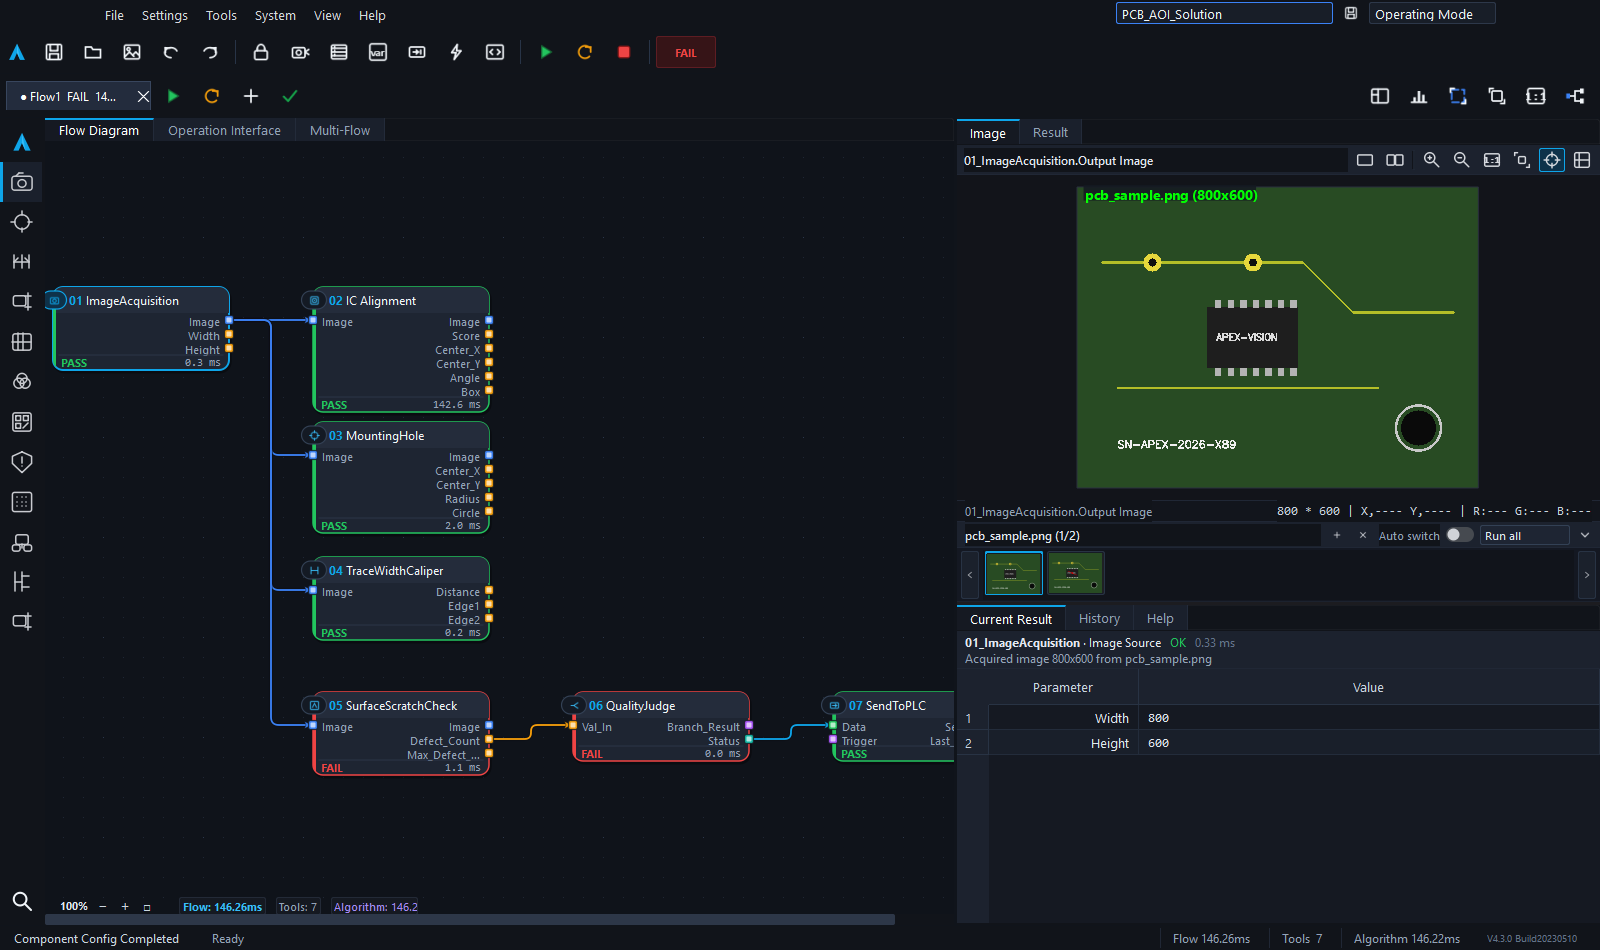
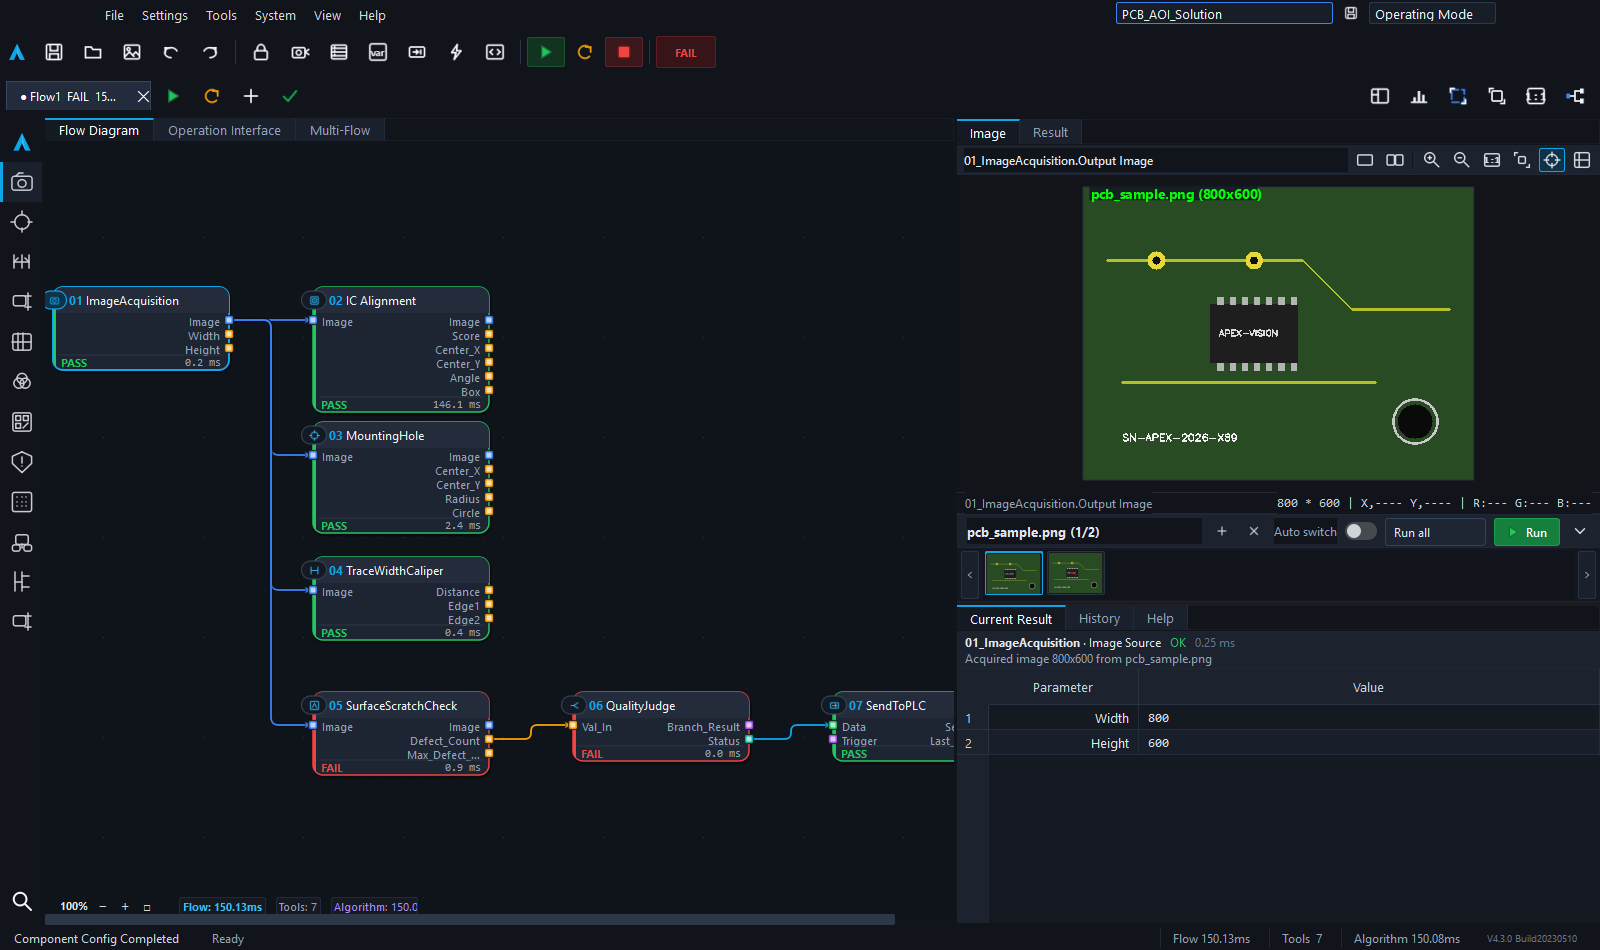
feat(ui): add play run button and enlarge image strip execution toolbar

diff --git a/vm_clone/ui/image_display.py b/vm_clone/ui/image_display.py
@@ -26,7 +26,7 @@ from PyQt6.QtCore import Qt, QSize, QRectF, QPointF, pyqtSignal
 from PyQt6.QtGui import QIcon, QPixmap, QPainter, QColor, QPen, QFont
 from PyQt6.QtWidgets import (
     QWidget, QVBoxLayout, QHBoxLayout, QLabel, QToolButton, QListWidget,
-    QListWidgetItem, QSizePolicy, QFrame, QComboBox
+    QListWidgetItem, QSizePolicy, QFrame, QComboBox, QPushButton
 )
 
 from vm_clone.ui.styles import THEME
@@ -123,7 +123,7 @@ class ToggleSwitch(QToolButton):
     def __init__(self, parent=None):
         super().__init__(parent)
         self.setCheckable(True)
-        self.setFixedSize(28, 15)
+        self.setFixedSize(32, 18)
         self.setCursor(Qt.CursorShape.PointingHandCursor)
 
     def paintEvent(self, event):
@@ -133,17 +133,17 @@ class ToggleSwitch(QToolButton):
         rect = QRectF(0.0, 0.0, w, h)
         if self.isChecked():
             track_color = QColor("#e8792b")
-            knob_x = w - h + 1.5
+            knob_x = w - h + 2.0
         else:
             track_color = QColor("#464a50")
-            knob_x = 1.5
+            knob_x = 2.0
         p.setPen(Qt.PenStyle.NoPen)
         p.setBrush(track_color)
         p.drawRoundedRect(rect, h / 2.0, h / 2.0)
 
-        knob_dia = h - 3.0
+        knob_dia = h - 4.0
         p.setBrush(QColor("#ffffff") if self.isChecked() else QColor("#d0d3d8"))
-        p.drawEllipse(QRectF(knob_x, 1.5, knob_dia, knob_dia))
+        p.drawEllipse(QRectF(knob_x, 2.0, knob_dia, knob_dia))
         p.end()
 
 
@@ -154,6 +154,7 @@ class ImageDisplayArea(QWidget):
     image_selected = pyqtSignal(int)       # index into the image strip
     add_image_requested = pyqtSignal()     # request to add images to the flow
     clear_images_requested = pyqtSignal()   # request to clear the flow images
+    run_requested = pyqtSignal()           # request to execute the flow
 
     def __init__(self, parent=None):
         super().__init__(parent)
@@ -241,10 +242,10 @@ class ImageDisplayArea(QWidget):
         # ---- image strip header ----------------------------------------------
         strip_header = QWidget()
         strip_header.setObjectName("imageStripHeader")
-        strip_header.setFixedHeight(26)
+        strip_header.setFixedHeight(34)
         sl = QHBoxLayout(strip_header)
-        sl.setContentsMargins(8, 2, 6, 2)
-        sl.setSpacing(6)
+        sl.setContentsMargins(10, 4, 8, 4)
+        sl.setSpacing(8)
 
         self.lbl_strip = QLabel("Image Source (0/0)")
         self.lbl_strip.setObjectName("imageStripLabel")
@@ -252,13 +253,13 @@ class ImageDisplayArea(QWidget):
 
         self.btn_add_image = _icon_button("add", "Add / Load Image Files to Flow...")
         self.btn_add_image.setObjectName("stripAddImage")
-        self.btn_add_image.setFixedSize(20, 20)
+        self.btn_add_image.setFixedSize(24, 24)
         self.btn_add_image.clicked.connect(self.add_image_requested)
         sl.addWidget(self.btn_add_image)
 
         self.btn_clear_strip = _icon_button("clear", "Clear image flow list")
         self.btn_clear_strip.setObjectName("stripClearImages")
-        self.btn_clear_strip.setFixedSize(20, 20)
+        self.btn_clear_strip.setFixedSize(24, 24)
         self.btn_clear_strip.clicked.connect(self.clear_images_requested)
         sl.addWidget(self.btn_clear_strip)
 
@@ -275,12 +276,25 @@ class ImageDisplayArea(QWidget):
         self.cbo_run_scope.setObjectName("runScopeCombo")
         self.cbo_run_scope.addItems(["Run all", "Run selected", "Single step"])
         self.cbo_run_scope.setToolTip("Flow execution scope")
+        self.cbo_run_scope.setFixedHeight(26)
         self.lbl_run_scope = self.cbo_run_scope
         setattr(self.cbo_run_scope, "text", lambda: self.cbo_run_scope.currentText())
         sl.addWidget(self.cbo_run_scope)
 
+        self.btn_play = QPushButton(" Run")
+        self.btn_play.setObjectName("stripPlayButton")
+        self.btn_play.setIcon(get_action_icon("run_once", 16))
+        self.btn_play.setIconSize(QSize(16, 16))
+        self.btn_play.setFixedHeight(26)
+        self.btn_play.setToolTip("Execute flow according to selected scope (Run all / selected / step)")
+        self.btn_play.setCursor(Qt.CursorShape.PointingHandCursor)
+        self.btn_play.clicked.connect(self.run_requested.emit)
+        self.btn_run_scope = self.btn_play
+        self.btn_run = self.btn_play
+        sl.addWidget(self.btn_play)
+
         self.btn_collapse = _icon_button("collapse_down", "Toggle thumbnail strip")
-        self.btn_collapse.setFixedSize(18, 18)
+        self.btn_collapse.setFixedSize(24, 24)
         self.btn_collapse.clicked.connect(self._toggle_strip_visibility)
         sl.addWidget(self.btn_collapse)
 

diff --git a/vm_clone/ui/vm_theme.py b/vm_clone/ui/vm_theme.py
@@ -464,25 +464,26 @@ QLabel#imageStatusCoords {{
 }}
 #imageStripHeader {{
     background-color: {T['vm_panel_header']};
+    border-top: 1px solid #202735;
     border-bottom: 1px solid #202735;
 }}
 QLabel#imageStripLabel {{
     color: #e2e8f0;
-    font-size: 12px;
+    font-size: 13px;
     font-weight: 600;
 }}
 QLabel#imageStripCaption {{
     color: #94a3b8;
-    font-size: 11px;
+    font-size: 12px;
 }}
 QComboBox#runScopeCombo {{
     background-color: #1e2533;
     color: #e2e8f0;
     border: 1px solid #334155;
-    border-radius: 2px;
-    padding: 0px 4px;
-    font-size: 11px;
-    min-height: 18px;
+    border-radius: 3px;
+    padding: 2px 8px;
+    font-size: 12px;
+    min-height: 22px;
 }}
 QComboBox#runScopeCombo:hover {{
     background-color: #263143;
@@ -490,7 +491,7 @@ QComboBox#runScopeCombo:hover {{
 }}
 QComboBox#runScopeCombo::drop-down {{
     border: none;
-    width: 14px;
+    width: 16px;
 }}
 QComboBox#runScopeCombo QAbstractItemView {{
     background-color: #181e28;
@@ -498,6 +499,25 @@ QComboBox#runScopeCombo QAbstractItemView {{
     border: 1px solid #334155;
     selection-background-color: {T['vm_accent']};
     selection-color: #ffffff;
+    font-size: 12px;
+}}
+QPushButton#stripPlayButton, QToolButton#stripPlayButton {{
+    background-color: #15803d;
+    color: #ffffff;
+    border: 1px solid #16a34a;
+    border-radius: 3px;
+    font-size: 12px;
+    font-weight: 600;
+    padding: 2px 10px;
+    min-height: 22px;
+}}
+QPushButton#stripPlayButton:hover, QToolButton#stripPlayButton:hover {{
+    background-color: #16a34a;
+    border-color: #22c55e;
+}}
+QPushButton#stripPlayButton:pressed, QToolButton#stripPlayButton:pressed {{
+    background-color: #14532d;
+    border-color: #15803d;
 }}
 #imageStripRow {{
     background-color: #141822;
@@ -689,21 +709,23 @@ QPushButton:checked {{
     border-color: {T['vm_accent']};
     color: #ffffff;
 }}
-QPushButton#btnRunOnce {{
+QToolButton#btnRunOnce, QPushButton#btnRunOnce {{
     background-color: #12331f;
     border: 1px solid #1b5330;
     color: #86efac;
 }}
-QPushButton#btnRunOnce:hover {{
+QToolButton#btnRunOnce:hover, QPushButton#btnRunOnce:hover {{
     background-color: #184428;
+    border-color: #22c55e;
 }}
-QPushButton#btnStop {{
+QToolButton#btnStop, QPushButton#btnStop {{
     background-color: #3b181c;
     border: 1px solid #5a242a;
     color: #fca5a5;
 }}
-QPushButton#btnStop:hover {{
+QToolButton#btnStop:hover, QPushButton#btnStop:hover {{
     background-color: #4c1f24;
+    border-color: #ef4444;
 }}
 
 /* Compact trailing action button in inspector parameter rows (Browse / Draw).

diff --git a/vm_clone/ui/main_window.py b/vm_clone/ui/main_window.py
@@ -900,6 +900,7 @@ class VisionMasterMainWindow(QMainWindow):
         self.image_display.image_selected.connect(self.on_image_strip_selected)
         self.image_display.add_image_requested.connect(self.on_load_image_file)
         self.image_display.clear_images_requested.connect(self.on_clear_image_flow)
+        self.image_display.run_requested.connect(self.on_strip_run_requested)
         self.image_canvas.image_file_dropped.connect(self.load_image_from_path)
         self.data_tabs.addTab(self.image_display, "Image")
 
@@ -1767,6 +1768,14 @@ class VisionMasterMainWindow(QMainWindow):
     def on_run_once(self):
         self.run_pipeline_step()
         self._set_hint("Flow executed once", 2000)
+
+    @pyqtSlot()
+    def on_strip_run_requested(self):
+        """Execute flow according to the scope chosen in the image strip ('Run all', 'Run selected', 'Single step')."""
+        self.run_pipeline_step()
+        scope = getattr(self.image_display, "cbo_run_scope", None)
+        scope_text = scope.currentText() if scope else "Run all"
+        self._set_hint(f"Flow executed ({scope_text})", 2000)
 
     @pyqtSlot(bool)
     def on_toggle_continuous(self, checked: bool):
